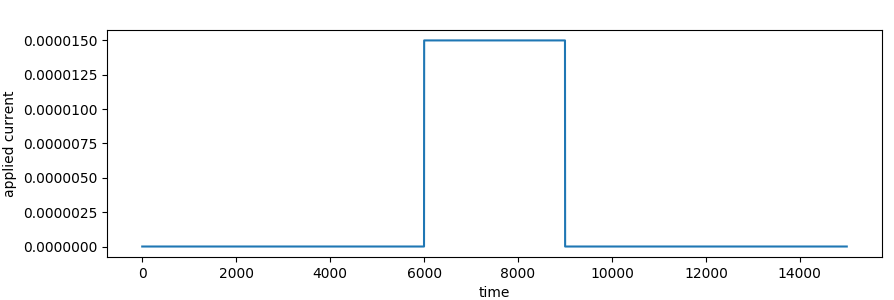
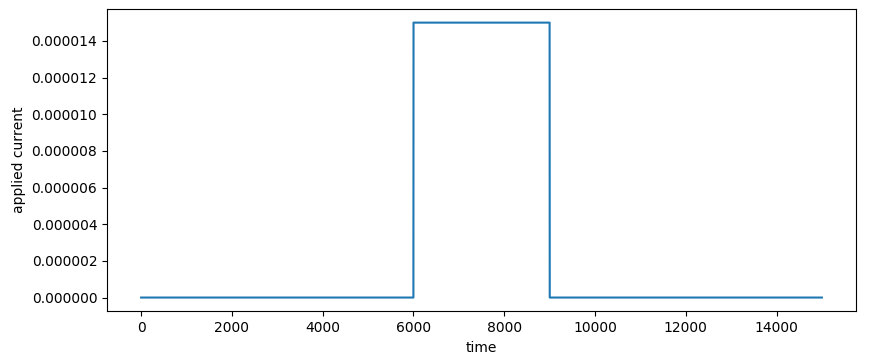
HH response

Changed region(s): [[0.0, 0.0, 1.0, 1.0]]

diff --git a/example1.py b/example1.py
@@ -18,70 +18,53 @@ T = 30e-3
 delta_t = 1e-5
 n_t = int(5*T//delta_t)+1 #otherwise one-timestep is gone
 
-V0 = -0.06515672*np.ones((1,1))
-h0 = 0.60159082*np.ones((1,1))
-m0 = 0.05196212*np.ones((1,1))
-n0 = 0.31527801*np.ones((1,1))
-
 Sq1 = Cur.SQUARE_PULSE(t_start=6000, t_end=9000, T=n_t)
 I = Sq1.generate()
 I = I0*I
 print(I.shape)
+plt.plot(I[0,:])
+plt.xlabel('time')
+plt.ylabel('applied current')
+plt.tight_layout()
+plt.show()
+
 
 N = HH.HH(C, E_Na, E_k, E_l, g_Na, g_k, g_l)
 print(N)
 
+V0 = -0.06515672*np.ones((1,1))
+h0 = 0.60159082*np.ones((1,1))
+m0 = 0.05196212*np.ones((1,1))
+n0 = 0.31527801*np.ones((1,1))
 
 V, h, m, n = N.compute(V0, h0, m0, n0, I, delta_t)
 i_Na = g_Na*(m**3)*h*(V-E_Na)
 i_k = g_k*(n**4)*(V-E_k)
 i_l = g_l*(V-E_l)
 
-P_Na = i_Na*(V-E_Na)
-P_k = i_k*(V-E_k)
-P_l = i_l*(V-E_l)
-P_cv = (-i_Na[:,1:] - i_k[:,1:] - i_l[:,1:] + I)*V[:,1:]
-
-plt.figure(figsize=(10,15))
-
-plt.subplot(3,1,1)
-plt.plot(list(range(n_t)), I[0,:])
-plt.xlabel('time')
-plt.ylabel('applied current')
-
-plt.subplot(3,1,2)
-plt.plot(list(range(n_t)), V[0,1:])
+plt.figure(figsize=(8,3))
+plt.subplot(1,2,1)
+plt.plot(V[0,1:])
 plt.xlabel('time')
 plt.ylabel('membrane potential')
 
-plt.subplot(3,1,3)
-plt.plot(list(range(n_t)), h[0,1:], 'r', label='h')
-plt.plot(list(range(n_t)), m[0,1:], 'g', label='m')
-plt.plot(list(range(n_t)), n[0,1:], 'b', label='n')
-plt.xlabel('time')
-plt.ylabel('parameter values')
-plt.legend()
-plt.show()
+# plt.subplot(2,2,2)
+# plt.plot(list(range(n_t)), h[0,1:], 'r', label='h')
+# plt.plot(list(range(n_t)), m[0,1:], 'g', label='m')
+# plt.plot(list(range(n_t)), n[0,1:], 'b', label='n')
+# plt.xlabel('time')
+# plt.ylabel('parameter values')
+# plt.legend()
+# plt.show()
 
-plt.figure(figsize=(10,15))
-plt.plot(list(range(n_t)), i_Na[0,1:], 'orange', label='Na')
-plt.plot(list(range(n_t)), i_k[0,1:], 'y', label='k')
-plt.plot(list(range(n_t)), i_l[0,1:], 'b', label='l')
+plt.subplot(1,2,2)
+plt.plot(i_Na[0,:], 'orange', label='Na')
+plt.plot(i_k[0,:], 'y', label='k')
+plt.plot(i_l[0,:], 'b', label='l')
 plt.legend()
 plt.xlabel('time')
 plt.ylabel('channel current')
-plt.show()
-
-print(P_Na.shape)
-print(P_cv.shape)
-plt.figure(figsize=(10,15))
-plt.plot(list(range(n_t)), P_Na[0,1:], 'orange', label='Na')
-plt.plot(list(range(n_t)), P_k[0,1:], 'y', label='k')
-plt.plot(list(range(n_t)), P_l[0,1:], 'b', label='l')
-plt.plot(list(range(n_t)), P_cv[0,:], 'r', label='capacitor')
-plt.legend()
-plt.xlabel('time')
-plt.ylabel('power')
+plt.tight_layout()
 plt.show()
 
 # Fanout = [

diff --git a/README.md b/README.md
@@ -60,6 +60,27 @@ plt.show() #graph shown below
 
 Let's pass this current to the `Neuron (hodgkin-huxley defined above)`. *Neurons have a `.compute()` function which will give the response of the neuron, given intial condition and input current*
 
+```python
+# initial conditions of neurons will be of shape [num_neuron X 1], in this case num neurons
+# These are the initial conditions of Hodgkin-Huxley, checkout the reading material
+# to figure out how to get these, for now enjoy the ride :P
+V0 = -0.06515672*np.ones((1,1))
+h0 = 0.60159082*np.ones((1,1))
+m0 = 0.05196212*np.ones((1,1))
+n0 = 0.31527801*np.ones((1,1))
+
+# response of the HH neuron
+# V is the membrane potential, m/h/n are the current parameters of HH
+V, h, m, n = Neuron.compute(V0, h0, m0, n0, I, delta_t)
+
+# we can get Sodium/Pottasium channel currents using h,m,n
+i_Na = g_Na*(m**3)*h*(V-E_Na)
+i_k = g_k*(n**4)*(V-E_k)
+i_l = g_l*(V-E_l)
+```
+We can visualise the responses, say `V, i_Na (Sodium channel current), i_k(potassium channel current), leaky current`
+![](./neurapse_HHresponse.png)
+
 
 
 
